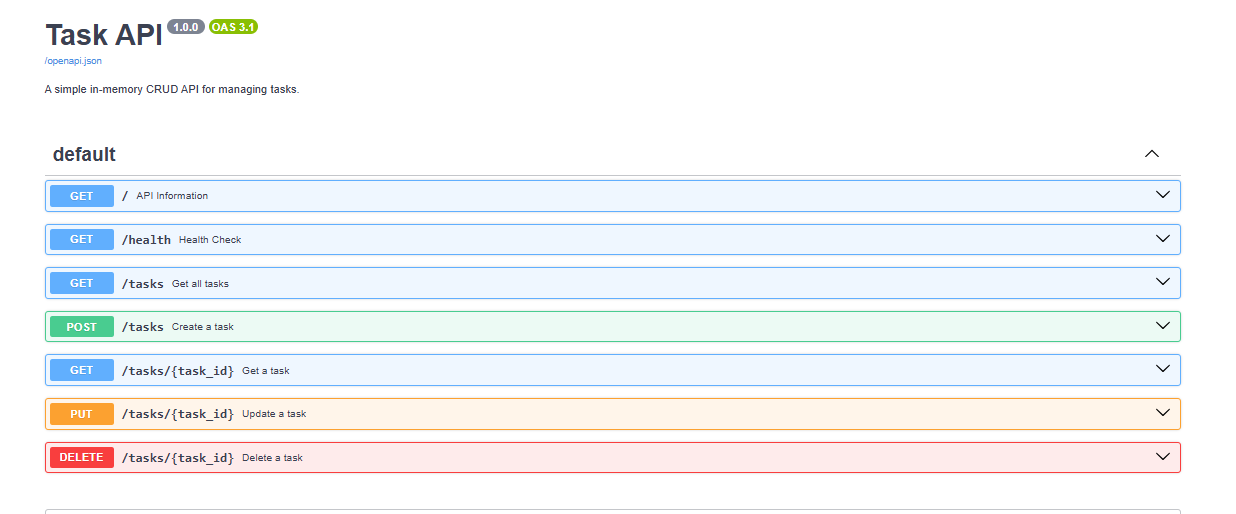
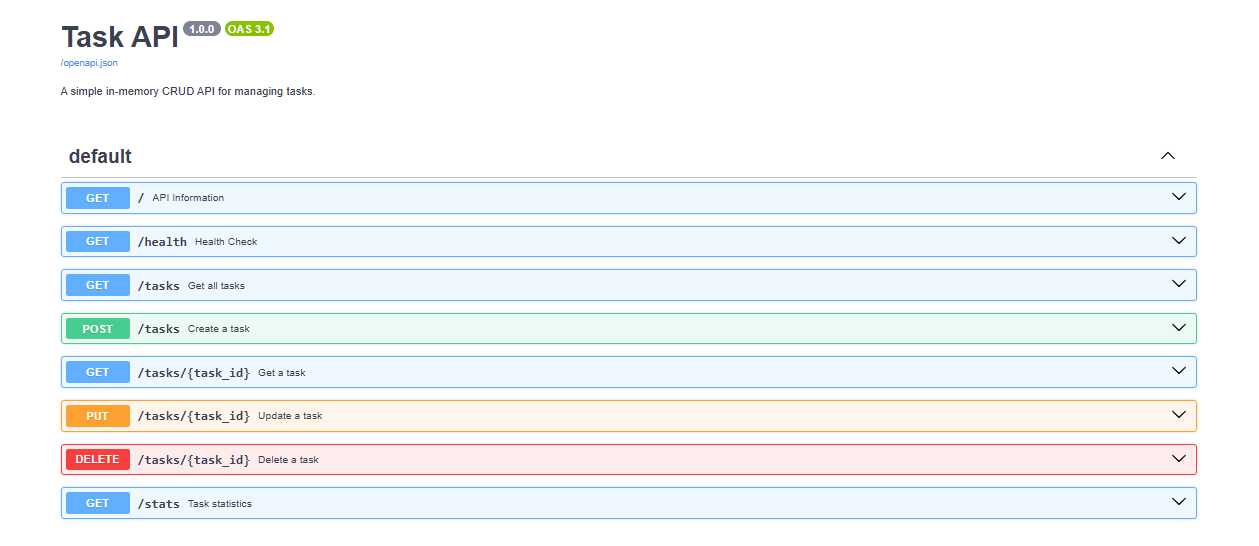
Extras: stats endpoint, filter tasks by done status

Changed region(s): [[0.0307, 0.2802, 0.9531, 0.965], [0.0307, 0.0311, 0.2152, 0.1245], [0.0307, 0.1556, 0.246, 0.1868]]

diff --git a/main.py b/main.py
@@ -62,8 +62,18 @@ def health():
     summary="Get all tasks",
     description="Returns a list of all tasks."
 )
-def get_tasks():
-    return tasks
+def get_tasks(done: bool = None):
+
+    if done is None:
+        return tasks
+
+    filtered_tasks = []
+
+    for task in tasks:
+        if task["done"] == done:
+            filtered_tasks.append(task)
+
+    return filtered_tasks
 
 
 @app.get(
@@ -154,3 +164,23 @@ def delete_task(task_id: int):
         status_code=404,
         detail=f"Task {task_id} not found"
     )
+
+
[email redacted](
+    "/stats",
+    summary="Task statistics",
+    description="Returns statistics about all tasks."
+)
+def get_stats():
+
+    total = len(tasks)
+
+    done = sum(1 for task in tasks if task["done"])
+
+    open_tasks = total - done
+
+    return {
+        "total": total,
+        "done": done,
+        "open": open_tasks
+    }

diff --git a/README.md b/README.md
@@ -39,7 +39,8 @@ That's the one documented command — `uv run uvicorn main:app --reload --port 8
 |--------|---------------|-------------------------------------|---------|----------------|
 | GET    | `/`           | API info                            | 200     | —              |
 | GET    | `/health`     | Health check                        | 200     | —              |
-| GET    | `/tasks`      | List all tasks                      | 200     | —              |
+| GET    | `/tasks`      | List all tasks (optional `?done=true/false` filter) | 200 | — |
+| GET    | `/stats`      | Task counts: total, done, open | 200 | — |
 | GET    | `/tasks/{id}` | Get one task by id                  | 200     | 404 if not found |
 | POST   | `/tasks`      | Create a new task                   | 201     | 400 if title missing/empty |
 | PUT    | `/tasks/{id}` | Replace a task's title and done status | 200  | 400 invalid body, 404 if not found |
@@ -49,6 +50,28 @@ Each task has the shape:
 
 ```json
 { "id": 1, "title": "Buy milk", "done": false }
+```
+
+---
+
+## Extras (optional)
+
+- **Filter by status:** `GET /tasks?done=true` returns only completed tasks, `GET /tasks?done=false` returns only open tasks. `done` is a query parameter — omitting it returns the full list, unfiltered. Implemented with `done: Optional[bool] = None` in the route function; FastAPI infers it as a query parameter because it isn't part of the path and isn't a Pydantic model.
+
+```bash
+curl -i "http://localhost:8000/tasks?done=true"
+```
+
+- **Stats endpoint:** `GET /stats` returns computed counts rather than raw stored data — the server does the counting instead of the client.
+
+```bash
+curl -i http://localhost:8000/stats
+```
+
+Response:
+
+```json
+{ "total": 5, "done": 2, "open": 3 }
 ```
 
 ---
@@ -88,3 +111,13 @@ FastAPI generates interactive API docs automatically at `/docs` — no extra set
 - **Validation errors** are returned under FastAPI's default key `detail` (e.g. `{"detail": "Title is required and cannot be empty"}`), not `error` as suggested in the assignment brief — this is FastAPI's built-in convention and was kept as-is since it's still a valid, machine-readable JSON error message.
 - **Missing vs. empty title:** posting a body with no `title` field at all returns FastAPI's automatic `422 Unprocessable Entity` (from Pydantic validation). Posting `{"title": ""}` or whitespace-only returns a custom `400 Bad Request` from an explicit check in the code. Both are "invalid input," handled at two different layers.
 - **In-memory storage:** all tasks live in a plain Python list inside `main.py`. Restarting the server always resets the list back to the 3 original seed tasks — there is no persistence yet. That's intentional for this stage; a real database is introduced next week.
+
+---
+
+## Author
+
+**Adebanke Peke**
+
+Backend AI Engineering – Week 2 Assignment
+
+Built with Python, FastAPI, and GitHub.